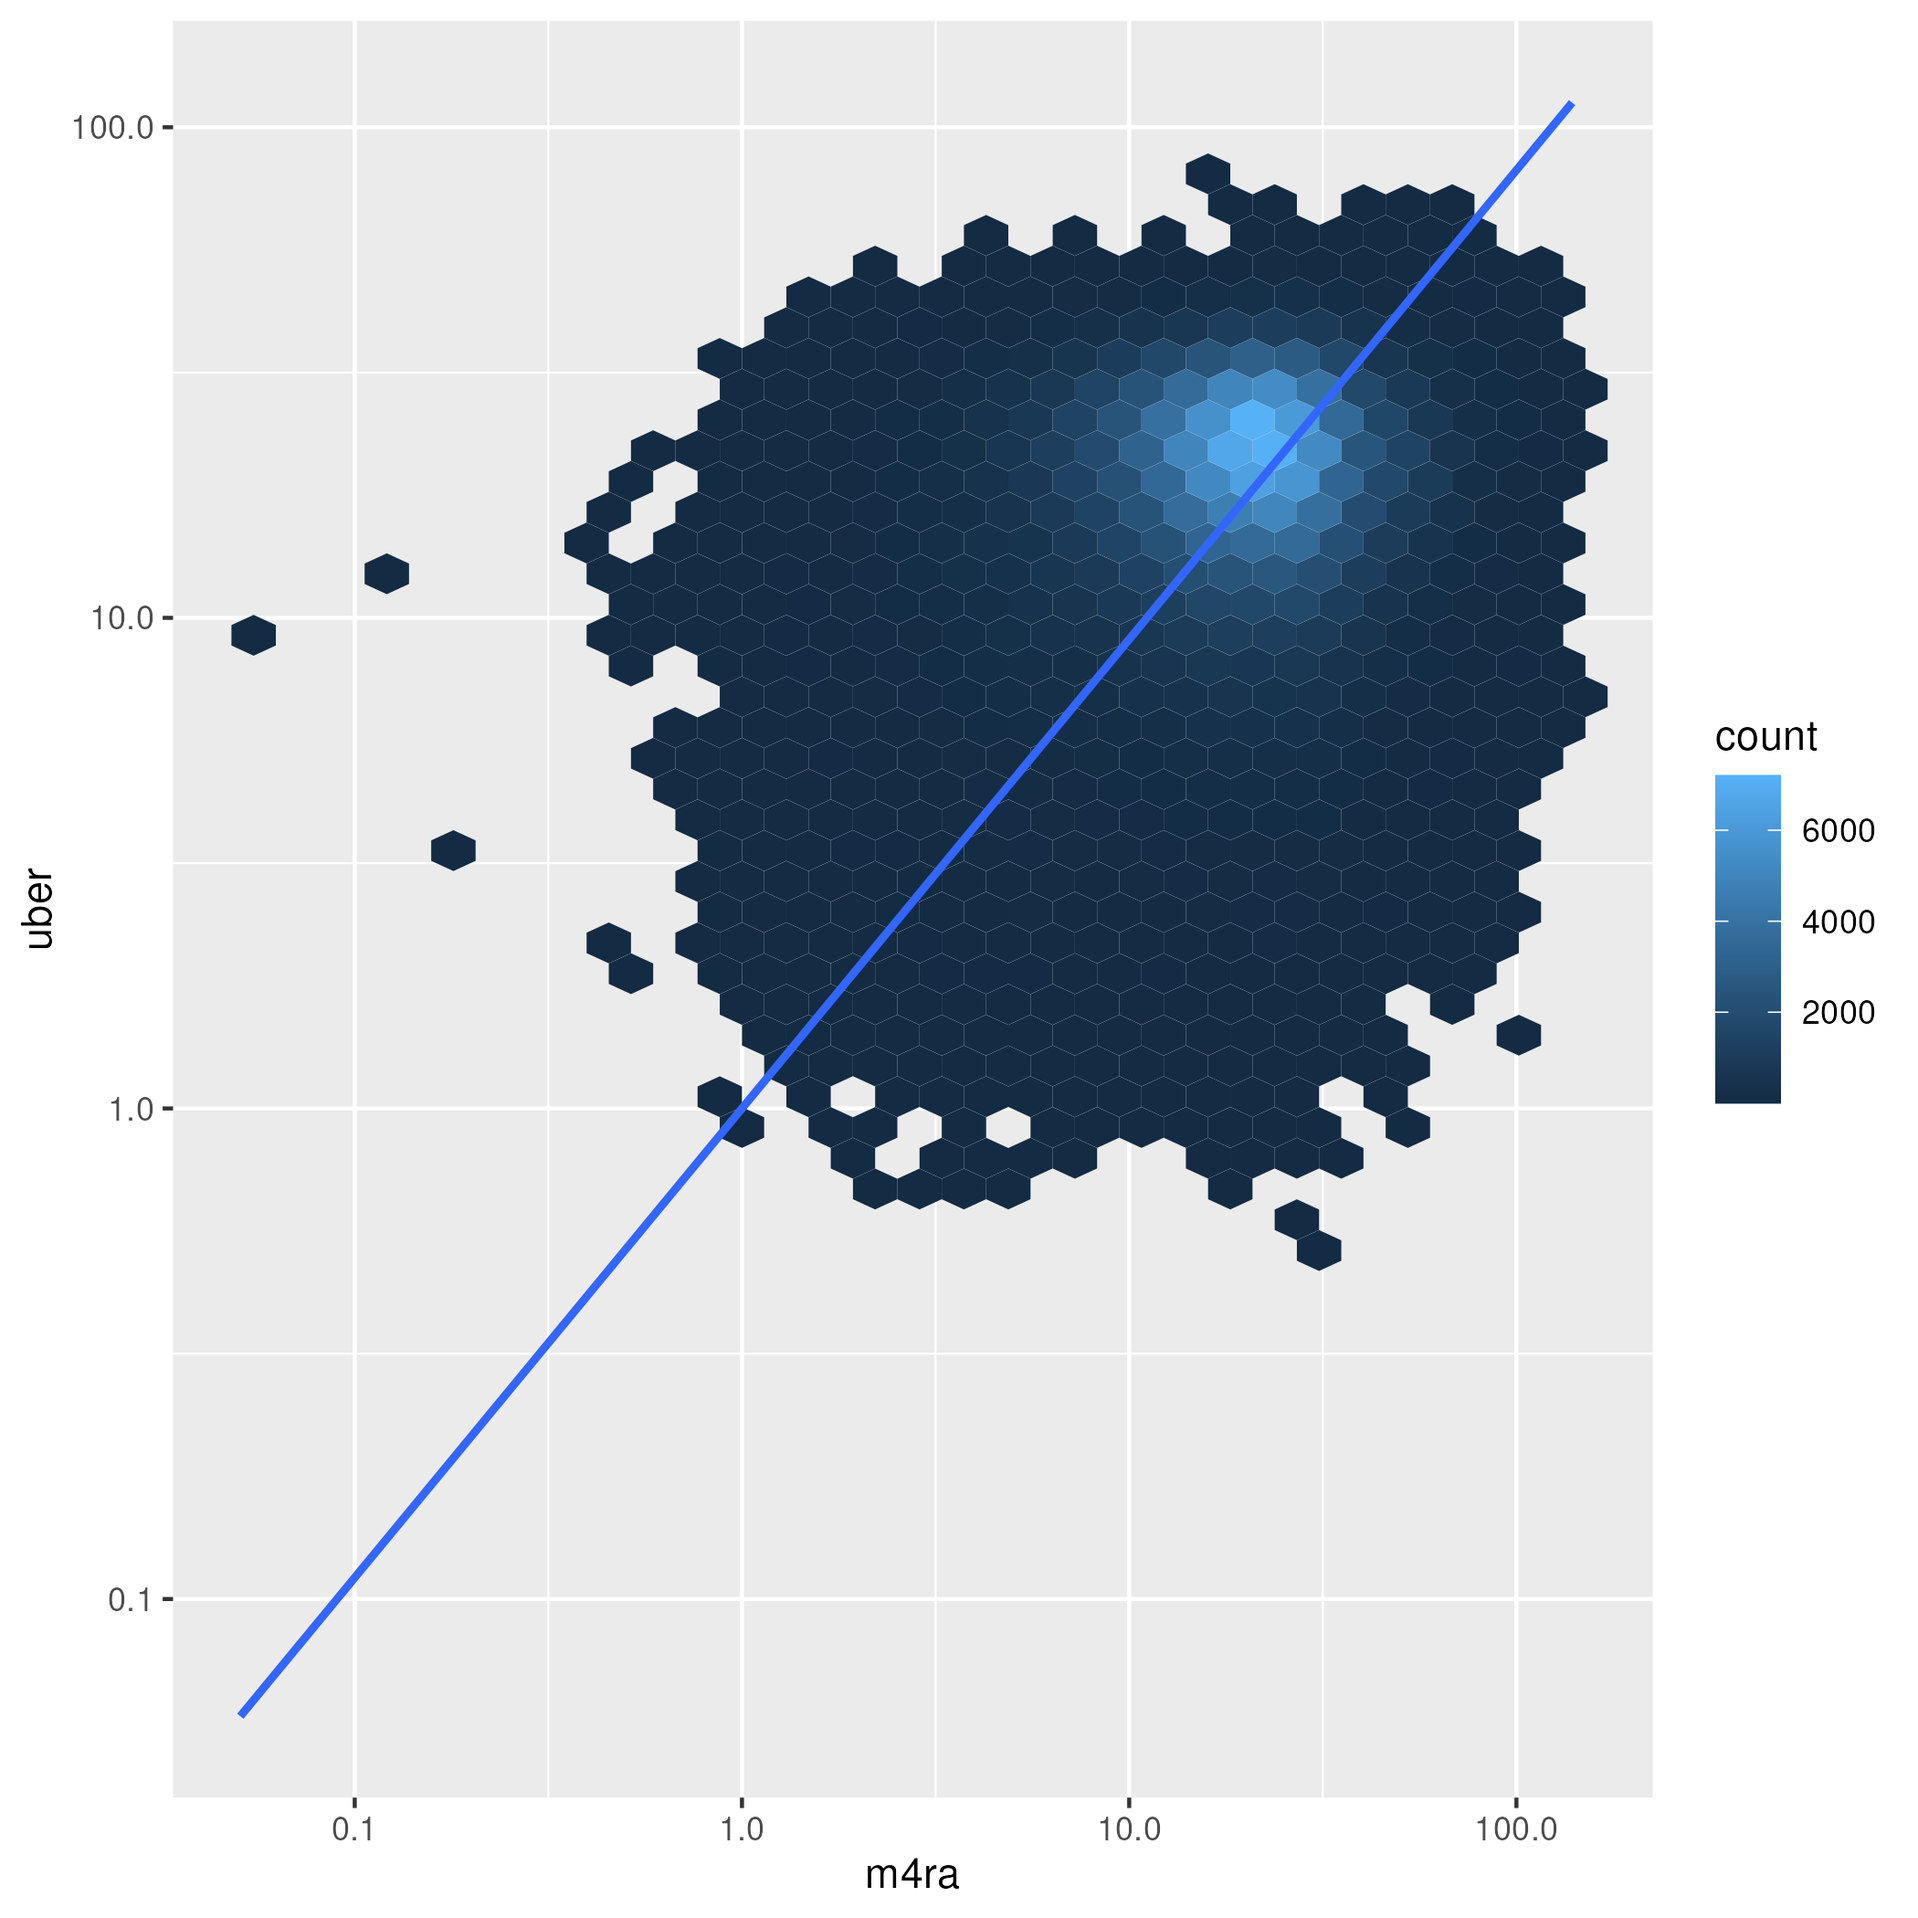
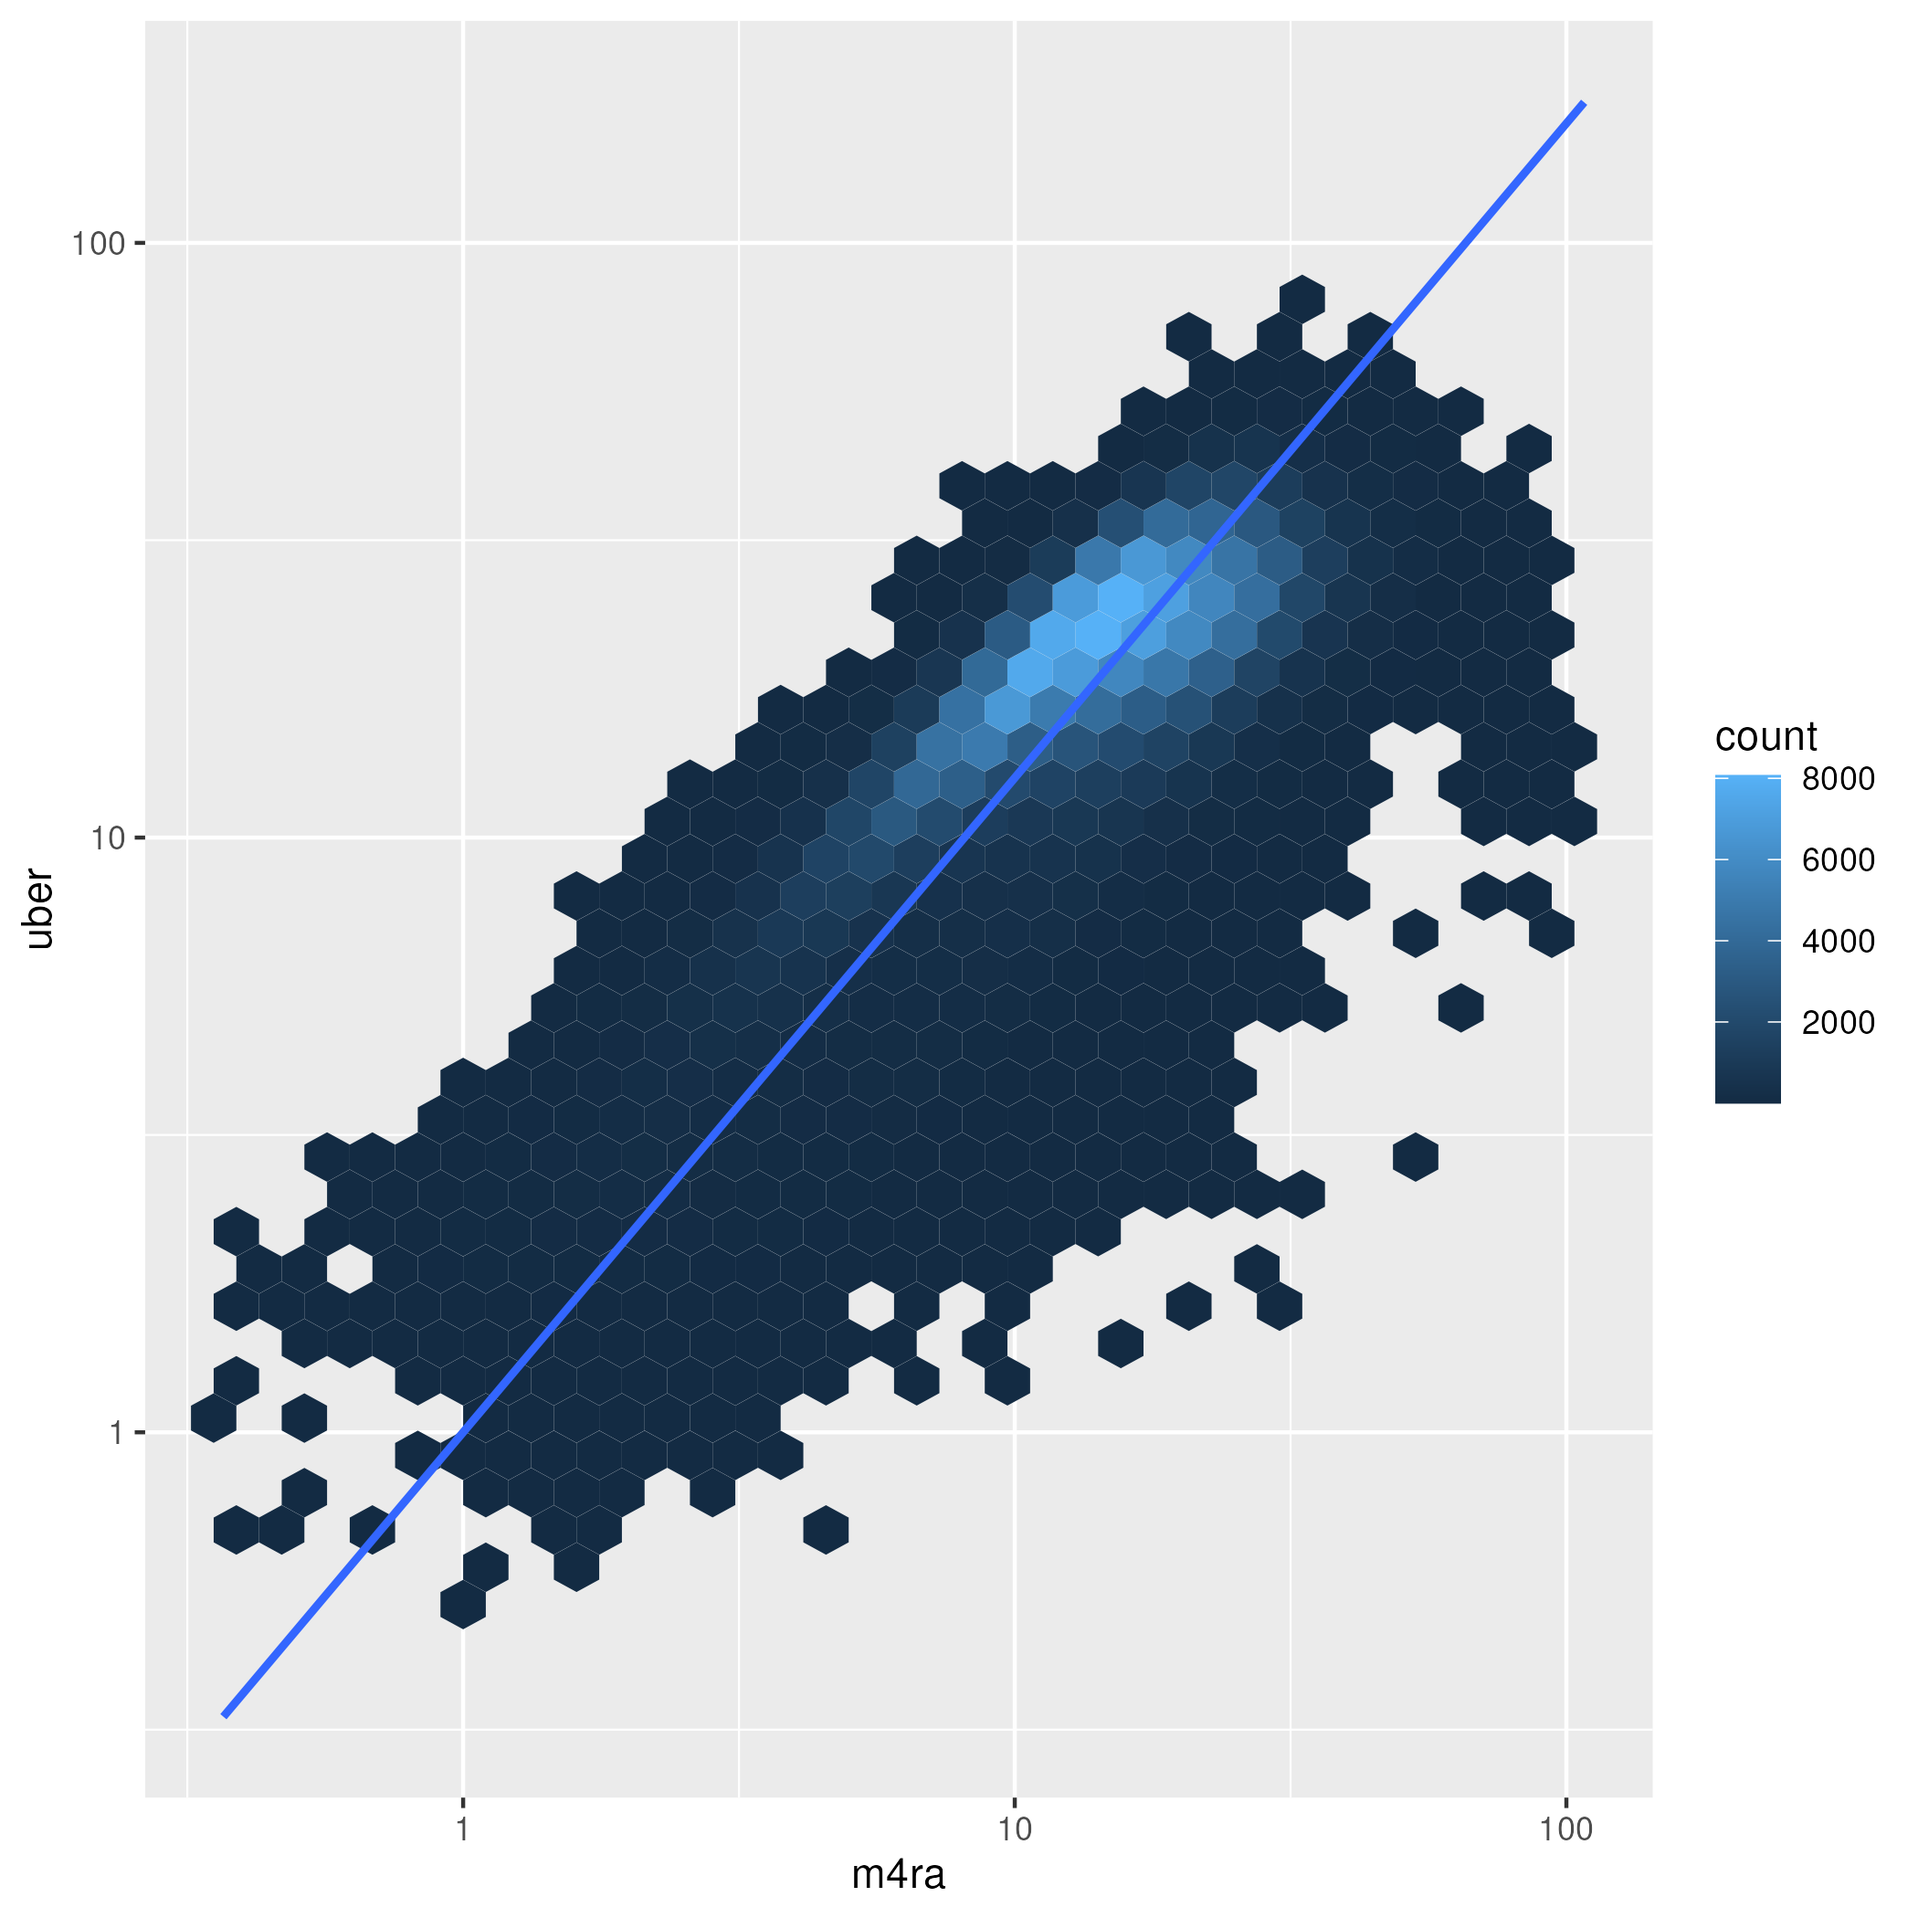
update correlation fig + readme

diff --git a/README.md b/README.md
@@ -95,11 +95,11 @@ times.
 ### Correlation
 
 The estmiated and observed travel times are highly correlated, with an
-R-squared value of around 0.64, or 0.933 on a logarithmic scale. These
-values compare with equivalent values generated for the paper,
-[*Predicting commuter flows in spatial networks using a radiation model
-based on temporal ranges*](https://www.nature.com/articles/ncomms6347),
-of 0.639 for raw data, calculated on a logarithmic scale, and 0.752
-factoring in centrality.
+R-squared value of around 0.63 on a logarithmic scale. That value
+compares with equivalent values generated for the paper, [*Predicting
+commuter flows in spatial networks using a radiation model based on
+temporal ranges*](https://www.nature.com/articles/ncomms6347), of 0.639
+for raw data, calculated on a logarithmic scale, and 0.752 factoring in
+centrality.
 
 ![](man/figures/correlation.png)
